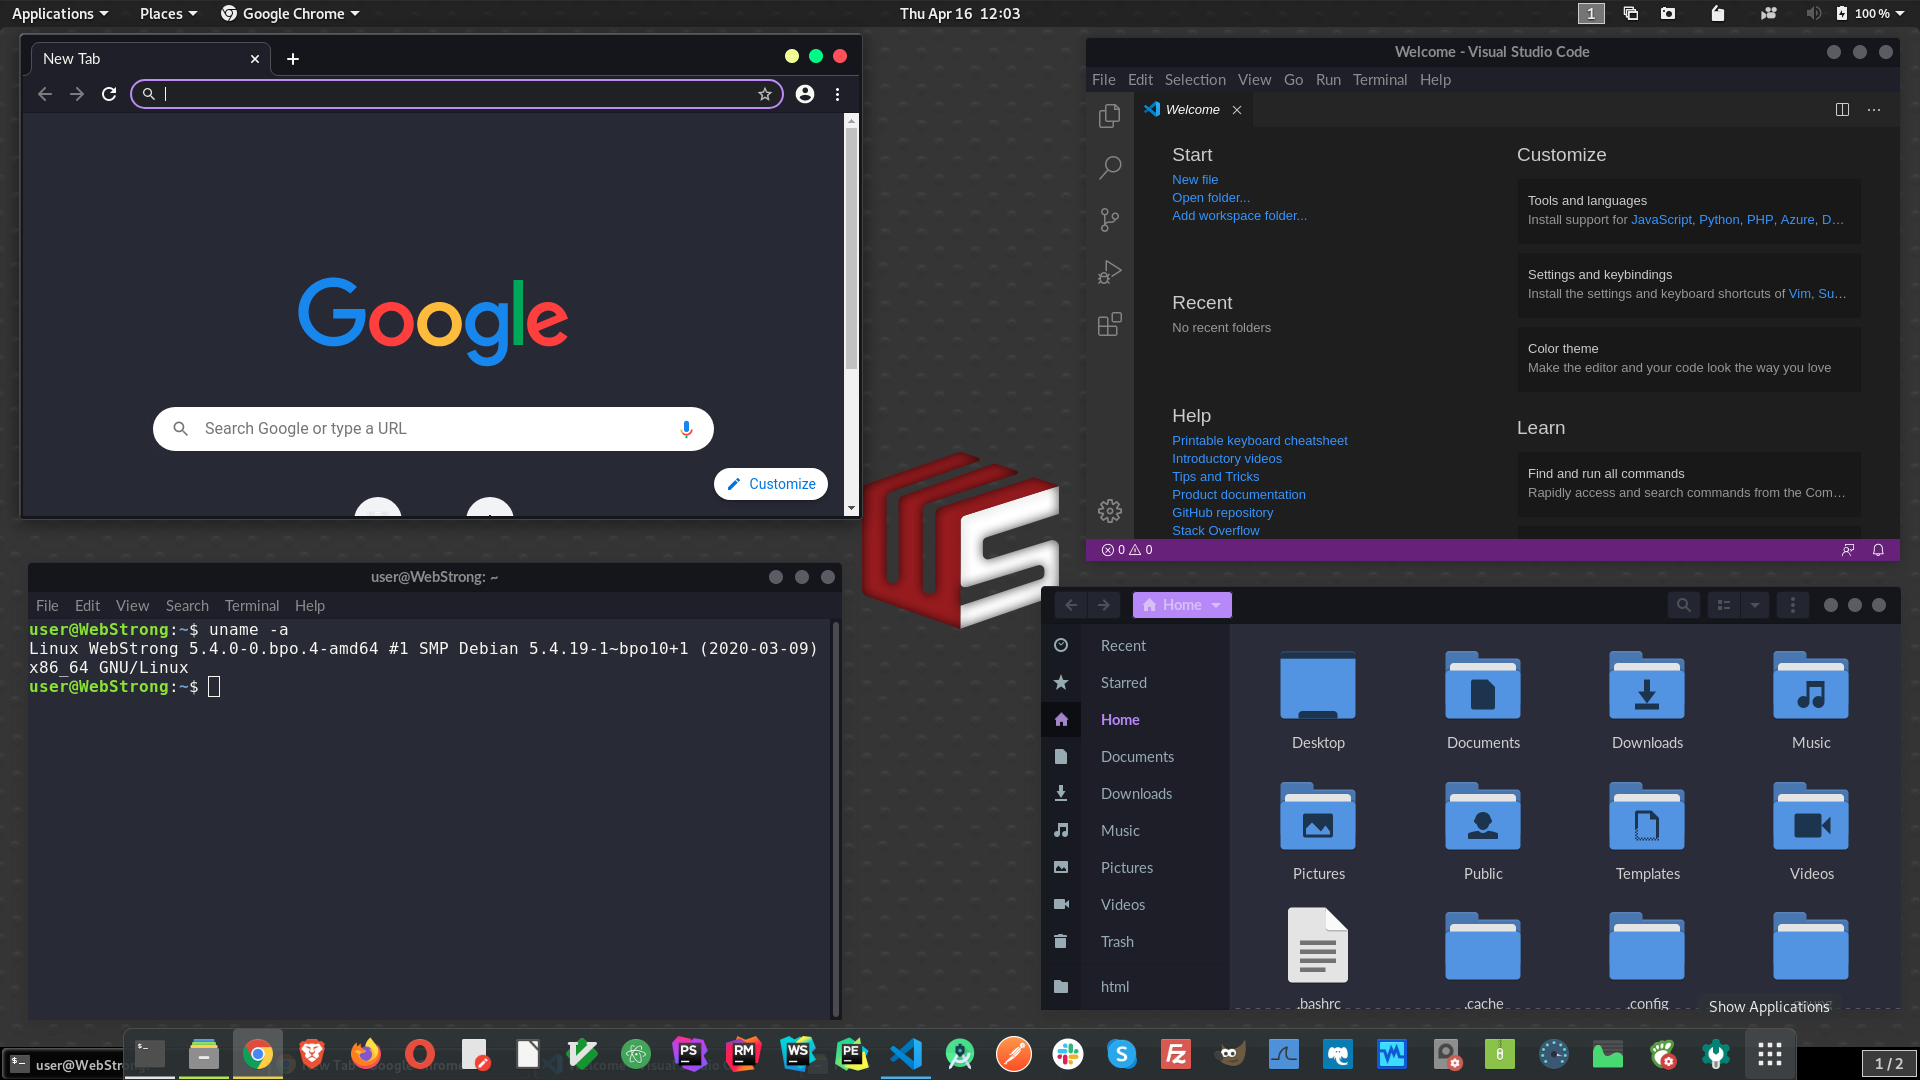
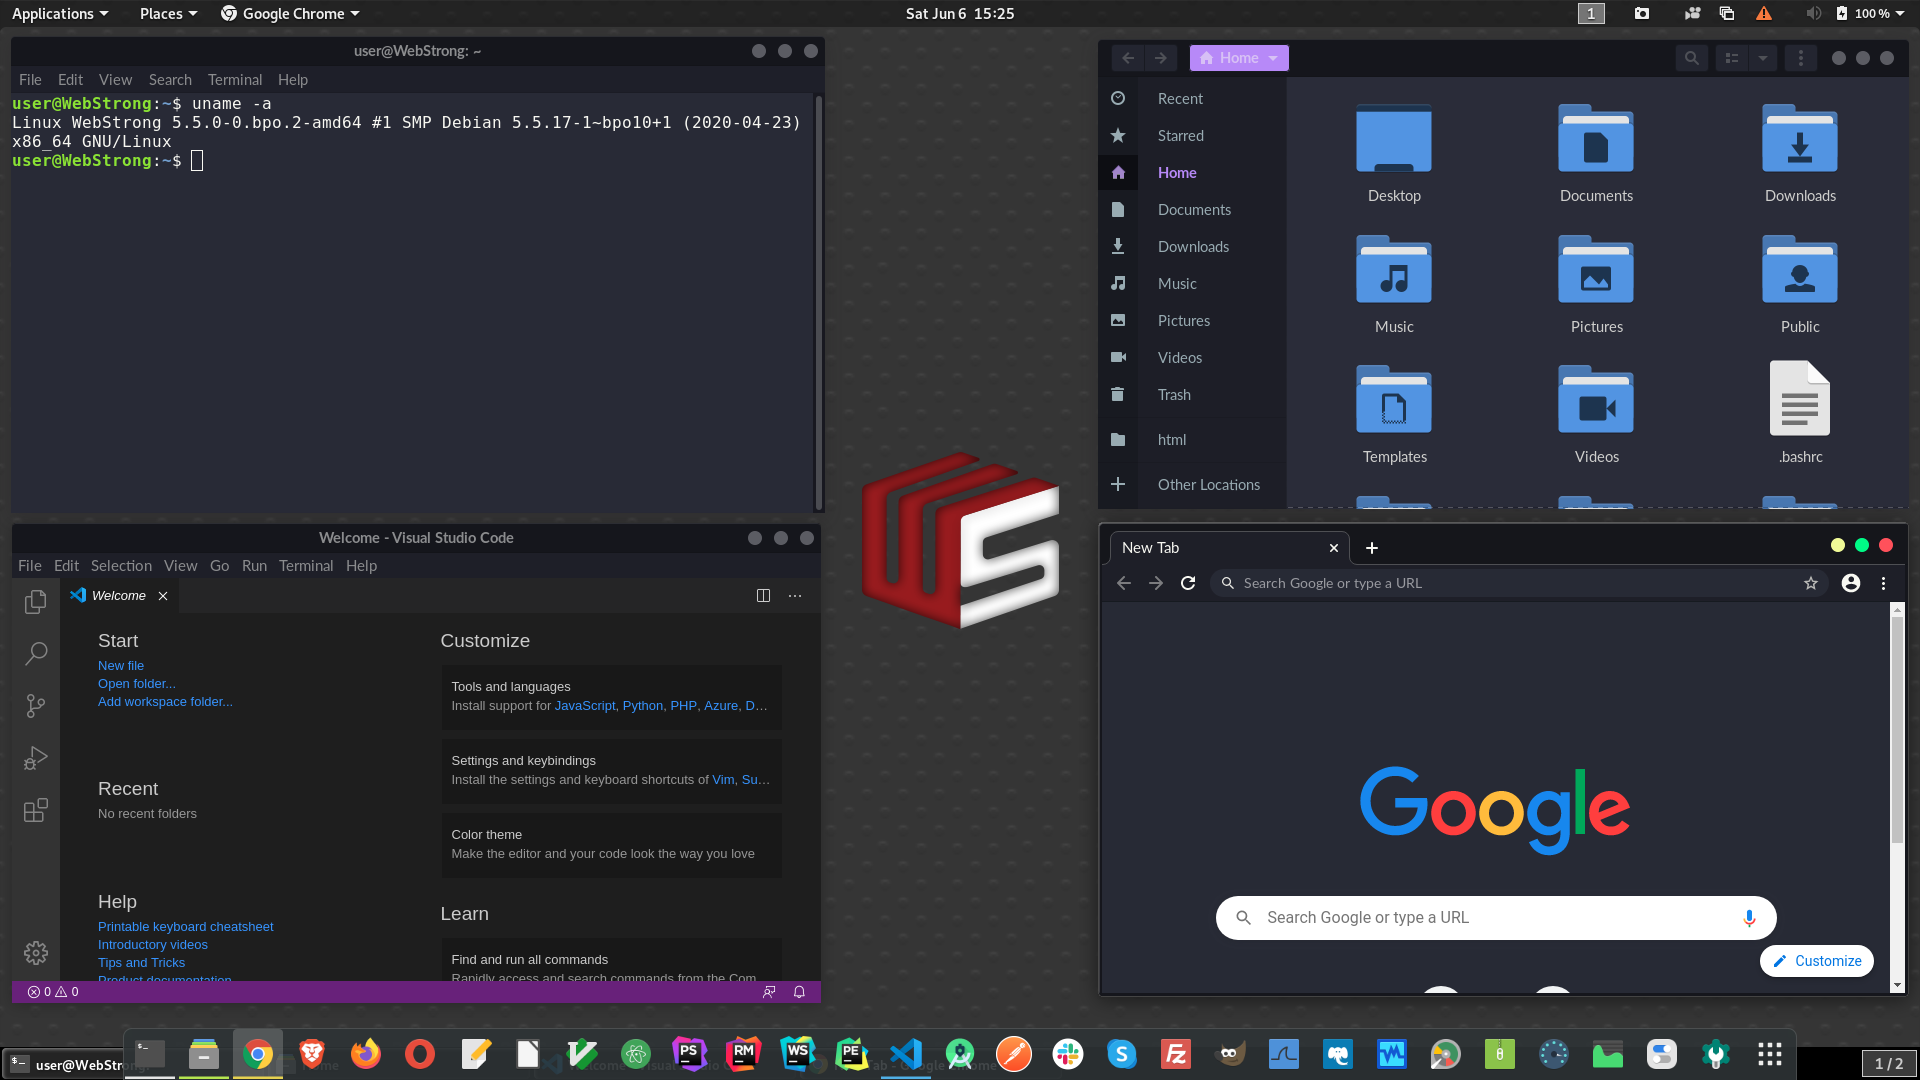
Update 1.5

diff --git a/scripts/webstrong/poweroff.py b/scripts/webstrong/poweroff.py
@@ -1,7 +1,10 @@
+# PowerOff - shutdown and reboot script with auto updates
+# Created by Matt Pijanowski (WebStrong)
+
 import os
 import sys
 
-before_sd = 'echo WebStrongOS 1.3 && echo'
+before_sd = 'echo WebStrongOS 1.5 && echo'
 sd_params = ''
 time = 'now'
 
@@ -25,7 +28,6 @@ def shutdown(params):
     for i in range(len(params)):
         find_param(i)
 
-    # print 'sudo -- su -c "'"{} && shutdown{} -h {}"'"'.format(before_sd, sd_params, time)
     os.system('sudo -- su -c "'"{} && shutdown{} {}"'"'.format(before_sd, sd_params, time))
     exit(0)
 

diff --git a/scripts/webstrong/geditroot.py b/scripts/webstrong/geditroot.py
@@ -1,5 +1,5 @@
 # GEditRoot - GEdit with admin permission 
-# Created by Matt Pijanowski (WebStrongTeam)
+# Created by Matt Pijanowski (WebStrong)
 
 import os
 import sys

diff --git a/scripts/webstrong/diroot.py b/scripts/webstrong/diroot.py
@@ -1,5 +1,5 @@
 # GeditRoot - Gedit with admin permission
-# Created by Matt Pijanowski (WebStrongTeam)
+# Created by Matt Pijanowski (WebStrong)
 
 import os
 import sys

diff --git a/README.md b/README.md
@@ -1,15 +1,18 @@
+<p align="center"><img src="https://github.com/webstrongteam/webstrongos/blob/1.5/assets/logo.png" width="150px" /></p>
+<p align="center"><i>Version: 1.5</i></p>
+<p align="center">
+  <a href="https://mega.nz/file/f3JhQS4B#c21ijHStt0A0AY7v-Z1gA0_mLa_llcUpswgQFziL9uU" target="_blank">DOWNLOAD HERE</a>
+</p>
+
 # WebStrongOS
+WebStrongOS is a custom Linux distribution created on the basic of Debian 10 intended for coders and developers. WS includes lots of useful tools and libs with clear design.
 
-<p align="center"><img src="https://github.com/mateuszpijanowski/webstrongos/blob/master/assets/logo.png" width="100px" /></p>
+<p align="center"><img src="https://github.com/webstrongteam/webstrongos/blob/1.5/assets/desktop.png" width="600px" /></p>
 
-## About Distro
-WebStrongOS is a own Linux distribution created on the basic of Debian 10 intended for coders. 
+### Lots of useful tools and libs
+WebStrongOS included the most important tools and libs for coders - PHP7.3, Ruby, Ruby on Rails, Git, NodeJS, Composer, Apache2, MySQL Server, MongoDB Server, PostgreSQL Server, Sqlite3, Atom editor, JetBrains editors, Visual Studio Code, Android Studio, Vim editor, many browsers, Slack, Skype, Postman and a lots of more. List of most important packages is below.
 
-<p align="center"><img src="https://github.com/mateuszpijanowski/webstrongos/blob/master/assets/desktop.png" width="500px" /></p>
-
-WebStrongOS included the most important tools and libs for coders - PHP7.3, Ruby, Ruby on Rails, Git, NodeJS, Composer, Apache2, MySQL Server, MongoDB Server, PostgreSQL Server, Sqlite3, Atom editor, JetBrains editors, Visual Studio Code, Android Studio, Vim editor, many browsers, Slack, Skype, Postman and a lot of more. List of most important packages is below.
-
-<p align="center"><img src="https://github.com/mateuszpijanowski/webstrongos/blob/master/assets/apps.png" width="500px" /></p>
+<p align="center"><img src="https://github.com/webstrongteam/webstrongos/blob/1.5/assets/apps.png" width="600px" /></p>
 
 ## Important packages list
 -Android Studio <br />
@@ -29,12 +32,13 @@ WebStrongOS included the most important tools and libs for coders - PHP7.3, Ruby
 -Google Chrome <br />
 -GParted <br />
 -ImageMagic <br />
+-Inkscape <br />
 -LibreOffice programs <br />
 -MongoDB Server <br />
 -MySQL Server <br />
 -Nano CLI editor <br />
 -Net-Tools <br />
--NodeJS <br />
+-NodeJS 12 <br />
 -Opera browser <br />
 -PHP7.3 <br />
 -PhpStorm <br />
@@ -89,10 +93,10 @@ WebStrongOS is not only tools and libs it is beautiful design and convenience. A
 Name: <b>WebStrongOS</b> <br />
 Architecture: <b>AMD64 (x86_64)</b> <br />
 Basic: <b>Debian 10 (Buster)</b> <br />
+Kernel version: <b>5.5.0</b> <br />
 Version: <b>1.5</b> <br />
-Kernel version: <b>5.4.19</b> <br />
 Type: <b>Hybrid ISO</b>
 
 #### Created by
 Matt Pijanowski, <b>powered by WebStrong.pl</b> <br />
-<i>GNU GENERAL PUBLIC LICENSE</i>
+###### <i>GNU GENERAL PUBLIC LICENSE</i>

diff --git a/WebStrongOS/1.5/DOWNLOAD.md b/WebStrongOS/1.5/DOWNLOAD.md
@@ -1,0 +1,1 @@
+- Mega.nz: https://mega.nz/file/f3JhQS4B#c21ijHStt0A0AY7v-Z1gA0_mLa_llcUpswgQFziL9uU

diff --git a/WebStrongOS/1.2/DOWNLOAD.md b/WebStrongOS/1.2/DOWNLOAD.md
@@ -1,0 +1,1 @@
+- Mega.nz: https://mega.nz/#!6zAxXKoC!dKQEemzaLDxrsE5IeBTZLxHXi0yEJeAgvbpGRuBFUGM
